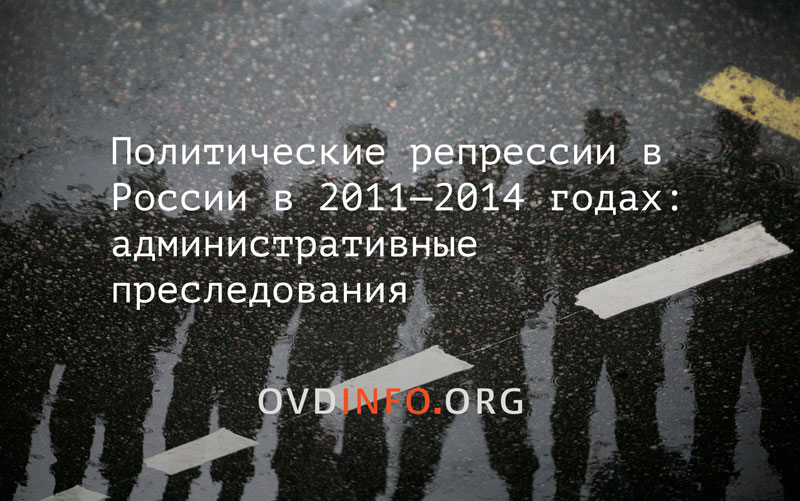
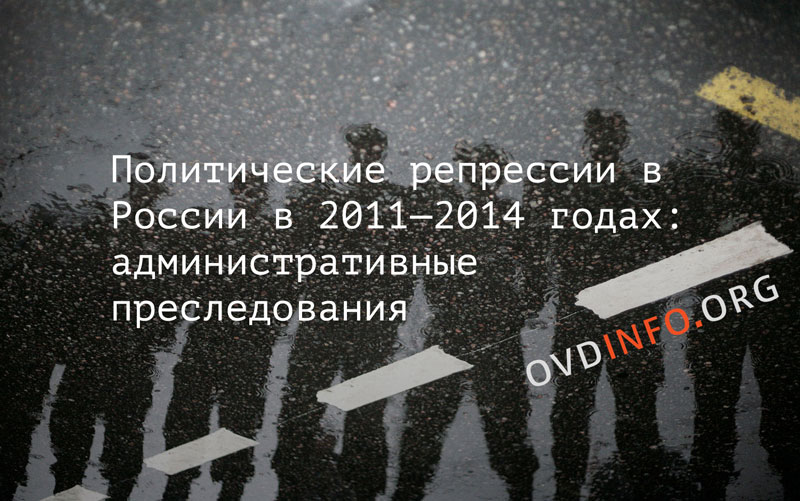
adm report fixes

Changed region(s): [[0.125, 0.2695, 0.8438, 0.6587], [0.6562, 0.5389, 0.9688, 0.7784], [0.3125, 0.7784, 0.6562, 0.8383]]

diff --git a/2014/adm-report/index.html b/2014/adm-report/index.html
@@ -11,7 +11,7 @@
   <meta name="viewport" content="initial-scale=1,maximum-scale=1,user-scalable=yes" />
   <link rel="shortcut icon" href="https://ovdinfo.org/sites/all/themes/ovdinfo/favicon.ico" type="image/vnd.microsoft.icon" />
   <meta name="title" content="Политические репрессии в России в 2011—2014 годах: административные преследования" />
-  <link rel="image_src" href="http://reports.ovdinfo.org/2014/adm-report/adm_cover_share.jpg">
+  <link rel="image_src" href="http://reports.ovdinfo.org/2014/adm-report/adm_cover_social.jpg">
   <meta name="description" content="В докладе анализируется применение административного политического преследования в России в 2011—2014 годах. Это вторая часть исследования ОВД-Инфо о современных российских политических репрессиях, задача которого в первом приближении описать, как они устроены, насколько масштабны и против кого направлены. Первый доклад был посвящен уголовным преследованиям." />
 
   <!-- Schema.org markup for Google+ -->
@@ -26,13 +26,13 @@
   <meta name="twitter:description" content="В докладе анализируется применение административного политического преследования в России в 2011—2014 годах. Это вторая часть исследования ОВД-Инфо о современных российских политических репрессиях, задача которого в первом приближении описать, как они устроены, насколько масштабны и против кого направлены. Первый доклад был посвящен уголовным преследованиям.">
   <meta name="twitter:creator" content="@ovdinfo">
   <!-- Twitter summary card with large image must be at least 280x150px -->
-  <meta name="twitter:image:src" content="http://reports.ovdinfo.org/2014/adm-report/adm_cover_share.jpg">
+  <meta name="twitter:image:src" content="http://reports.ovdinfo.org/2014/adm-report/adm_cover_social.jpg">
 
   <!-- Open Graph data -->
   <meta property="og:title" content="Политические репрессии в России в 2011—2014 годах: административные преследования" />
   <meta property="og:type" content="article" />
   <meta property="og:url" content="http://reports.ovdinfo.org/2014/adm-report/" />
-  <meta property="og:image" content="http://reports.ovdinfo.org/2014/adm-report/adm_cover_share.jpg" />
+  <meta property="og:image" content="http://reports.ovdinfo.org/2014/adm-report/adm_cover_social.jpg" />
   <meta property="og:description" content="В докладе анализируется применение административного политического преследования в России в 2011—2014 годах. Это вторая часть исследования ОВД-Инфо о современных российских политических репрессиях, задача которого в первом приближении описать, как они устроены, насколько масштабны и против кого направлены. Первый доклад был посвящен уголовным преследованиям." />
   <meta property="og:site_name" content="OvdInfo.org" />
   <meta property="article:published_time" content="2015-03-06T00:00:00+03:00" />
